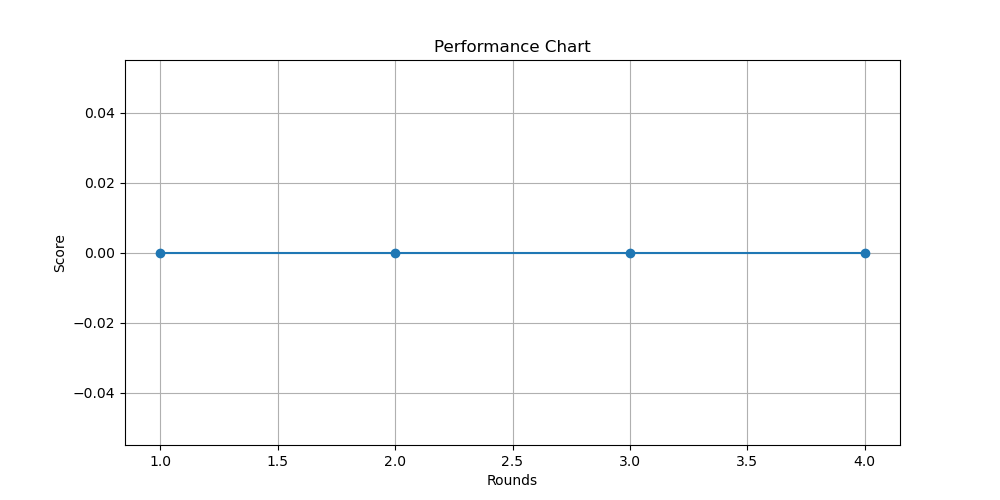
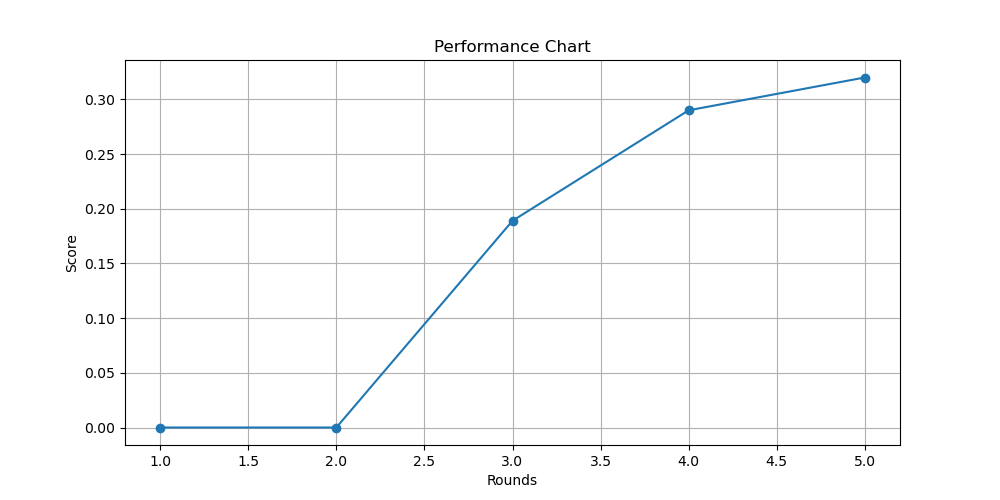
update README.md and performance chart

diff --git a/Final_Project/plot_performance.py b/Final_Project/plot_performance.py
@@ -3,8 +3,8 @@ import matplotlib.pyplot as plt
 matplotlib.use('Agg') 
 
 # Data
-rounds = [1, 2, 3, 4]
-scores = [0, 0, 0, 0]
+rounds = [1, 2, 3, 4, 5]
+scores = [0, 0, 0.189, 0.29, 0.32]
 
 # Create the plot
 plt.figure(figsize=(10, 5))

diff --git a/Final_Project/README.md b/Final_Project/README.md
@@ -1,149 +1,141 @@
 # Kaggle Project: Predicting Problematic Internet Use in Children
 
+**Author:** James Kong
+
+**Course:** COSI 104A - Introduction to Machine Learning
+
+**Assignment:** Final Project
+
+**Date:** 12/13/2024
+
 ## Overview
 
-In today’s digital age, problematic internet use among children and adolescents is a growing concern. Better understanding this issue is crucial for addressing mental health problems such as depression and anxiety.
-
-Current methods for measuring problematic internet use in children and adolescents are often complex and require professional assessments. This creates access, cultural, and linguistic barriers for many families. Due to these limitations, problematic internet use is often not measured directly, but is instead associated with issues such as depression and anxiety in youth.
-
-Conversely, physical & fitness measures are extremely accessible and widely available with minimal intervention or clinical expertise. Changes in physical habits, such as poorer posture, irregular diet, and reduced physical activity, are common in excessive technology users. We propose using these easily obtainable physical fitness indicators as proxies for identifying problematic internet use, especially in contexts lacking clinical expertise or suitable assessment tools.
-
-This competition challenges you to develop a predictive model capable of analyzing children's physical activity data to detect early indicators of problematic internet and technology use. This will enable prompt interventions aimed at promoting healthier digital habits.
-
-Your work will contribute to a healthier, happier future where children are better equipped to navigate the digital landscape responsibly.
+In today’s digital age, problematic internet use among children and adolescents is a growing concern. As part of my project for the COSI 104A - Introduction to Machine Learning course, I aimed to develop a predictive model to identify early indicators of problematic internet use based on children's physical activity data. This project leverages accessible physical and fitness measures as proxies for detecting problematic internet use, which can help in contexts lacking clinical expertise or suitable assessment tools. The goal is to enable prompt interventions aimed at promoting healthier digital habits among children.
 
 ## Project Structure
 
-### Python Files
+The project is organized as follows:
 
-- **[main.py](main.py)**: Orchestrates the data loading, preprocessing, model training, and prediction steps. It loads the training and test data, preprocesses them, trains a model using cross-validation, and predicts problematic internet use within the test data, saving the results to a CSV file.
-  - **Functions**:
-    - `main()`: The main function that coordinates the entire process from data loading to prediction.
-    - `start_timer()`, `get_time_passed()`: Utility functions for tracking the execution time.
-  - **Example**:
+- `data_loader.py`: Contains functions to load and prepare the data from CSV and Parquet files.
+  - `load_data`: Loads and merges training and test data from CSV and Parquet files.
+  - `prepare_test_data`: Prepares test data for prediction by mapping season strings to integers and filling missing values.
+- `pre_processor.py`: Includes functions for preprocessing the data, such as scaling and applying PCA.
+  - `preprocess_data`: Preprocesses the training and test data by removing columns with missing values, mapping season strings to integers, encoding categorical columns, and applying PCA.
+- `model.py`: Defines the function to train a voting classifier model using RandomForest, XGBoost, and LightGBM classifiers.
+  - `train_model`: Trains a voting classifier model using RandomForest, XGBoost, and LightGBM classifiers.
+- `main.py`: The main script to execute the workflow, including loading data, preprocessing, training the model, evaluating, and saving predictions.
+  - `main`: Executes the workflow by loading and preprocessing data, splitting data into training and testing sets, training the model, evaluating the model, and preparing and saving predictions.
+- `plot_performance.py`: Script to plot the performance of the model over multiple rounds of submissions.
+- `README.md`: Project documentation.
+- `data_dictionary.csv`: Contains descriptions of the dataset fields.
+- `train.csv`, `test.csv`, `sample_submission.csv`: Dataset files.
+- `series_train.parquet/`, `series_test.parquet/`: Additional dataset files in Parquet format.
+## Feature Engineering
+
+Feature engineering is handled within the `preprocess_data` function in the [`pre_processor.py`](pre_processor.py) file. The steps include:
+
+1. Removing columns with more than 50% missing values:
     ```python
-    from data_loader import load_data
-    from preprocessor import preprocess_data
-    from model import train_and_evaluate_model, make_predictions
-    from timer import start_timer, get_time_passed
-
-    def main():
-        start_timer()
-        train_data, test_data = load_data('train.csv', 'test.csv', 'series_train.parquet', 'series_test.parquet')
-        X_train, X_test, y_train = preprocess_data(train_data, test_data)
-        models = train_and_evaluate_model(X_train, y_train, X_train.columns)
-        make_predictions(models, X_test, 'submission.csv', test_data['id'])
-        print(f"Time taken: {get_time_passed()} seconds")
-
-    if __name__ == "__main__":
-        main()
+    train_data = train_data.loc[:, train_data.isnull().mean() < 0.5]
     ```
 
-- **[data_loader.py](data_loader.py)**: Contains functions to load the training and test data from CSV and Parquet files.
-  - **Functions**:
-    - `load_data(train_csv, test_csv, train_parquet, test_parquet)`: Loads and returns the training and test datasets from the specified files.
-  - **Example**:
+2. Filling remaining missing values with 0:
     ```python
-    import pandas as pd
-
-    def load_data(train_csv, test_csv, train_parquet, test_parquet):
-        train_data = pd.read_csv(train_csv)
-        test_data = pd.read_csv(test_csv)
-        train_series = pd.read_parquet(train_parquet)
-        test_series = pd.read_parquet(test_parquet)
-        return train_data, test_data, train_series, test_series
+    train_data = train_data.fillna(0)
     ```
 
-- **[preprocessor.py](preprocessor.py)**: Handles data preprocessing tasks such as cleaning, normalization, and feature engineering.
-  - **Functions**:
-    - `preprocess_data(X_train, X_test)`: Preprocesses the training and test datasets, including normalization and feature engineering.
-  - **Example**:
+3. Mapping season strings to integers for relevant columns:
     ```python
-    from sklearn.preprocessing import StandardScaler
-
-    def preprocess_data(train_data, test_data):
-        X_train = train_data.drop(columns=['target'])
-        y_train = train_data['target']
-        X_test = test_data.copy()
-
-        scaler = StandardScaler()
-        X_train = scaler.fit_transform(X_train)
-        X_test = scaler.transform(X_test)
-
-        return X_train, X_test, y_train
+    season_mapping = {'Spring': 0, 'Summer': 1, 'Fall': 2, 'Winter': 3}
+    season_cols = ['Basic_Demos-Enroll_Season', 'CGAS-Season', 'Physical-Season', 'Fitness_Endurance-Season', 'FGC-Season', 'BIA-Season', 'PCIAT-Season', 'SDS-Season', 'PreInt_EduHx-Season']
+    for col in season_cols:
+        if col in train_data.columns:
+            train_data[col] = train_data[col].map(season_mapping).fillna(-1).astype(int)
     ```
 
-- **[model.py](model.py)**: Contains functions to train and evaluate machine learning models using cross-validation and to make predictions on the test data.
-  - **Functions**:
-    - `train_and_evaluate_model(X_train, y_train, feature_names)`: Trains multiple models and evaluates them using cross-validation.
-    - `make_predictions(models, X_test, submission_file, test_ids)`: Makes predictions on the test data and saves the results to a CSV file.
-  - **Example**:
+4. Converting all columns to numeric:
     ```python
-    from sklearn.ensemble import RandomForestClassifier
-    from sklearn.model_selection import cross_val_score
-    import pandas as pd
-
-    def train_and_evaluate_model(X_train, y_train, feature_names):
-        model = RandomForestClassifier(n_estimators=100, random_state=42)
-        scores = cross_val_score(model, X_train, y_train, cv=5, scoring='accuracy')
-        print(f"Cross-validation scores: {scores}")
-        model.fit(X_train, y_train)
-        return model
-
-    def make_predictions(model, X_test, submission_file, test_ids):
-        predictions = model.predict(X_test)
-        submission = pd.DataFrame({'id': test_ids, 'prediction': predictions})
-        submission.to_csv(submission_file, index=False)
+    train_data = train_data.apply(pd.to_numeric, errors='coerce')
     ```
 
-- **[plot_performance.py](plot_performance.py)**: Generates a performance plot of multiple round submissions.
-  - **Functions**:
-    - `plot_performance_chart()`: Plots the performance of different model submissions over multiple rounds.
-  - **Example**:
+5. Selecting columns with high correlation to the label `sii`:
     ```python
-    import matplotlib.pyplot as plt
-
-    def plot_performance_chart():
-        rounds = [1, 2, 3, 4, 5]
-        scores = [0.5, 0.55, 0.6, 0.65, 0.7]
-        plt.plot(rounds, scores, marker='o')
-        plt.title('Model Performance Over Multiple Rounds')
-        plt.xlabel('Round')
-        plt.ylabel('Score')
-        plt.show()
+    correlation_with_label = train_data.corr()['sii']
+    corr_threshold = 0.2
+    high_corr_columns = correlation_with_label[abs(correlation_with_label) >= corr_threshold].index
+    train_data = train_data[high_corr_columns]
     ```
 
-### CSV Files
+6. Encoding categorical columns using [LabelEncoder](http://_vscodecontentref_/0):
+    ```python
+    encoder = LabelEncoder()
+    categorical_columns = train_data.select_dtypes(include=['object']).columns
+    for col in categorical_columns:
+        train_data[col] = encoder.fit_transform(train_data[col].astype(str))
+    ```
 
-- **[train.csv](train.csv)**: Contains the training data with various physical and fitness measures along with the target variable indicating problematic internet use.
-- **[test.csv](test.csv)**: Contains the test data with similar features as the training data but without the target variable.
-- **[submission.csv](submission.csv)**: The file where the predictions for the test data are saved for submission.
-- **[data_dictionary.csv](data_dictionary.csv)**: Provides descriptions of the fields in the training and test datasets.
-- **[sample_submission.csv](sample_submission.csv)**: A sample submission file to illustrate the expected format of the submission.
+7. Standardizing the features using [StandardScaler](http://_vscodecontentref_/1):
+    ```python
+    scaler = StandardScaler()
+    X_scaled = scaler.fit_transform(train_data)
+    ```
 
-### Other Files
+8. Applying PCA to reduce dimensionality:
+    ```python
+    pca = PCA(n_components=0.95)
+    X_pca = pca.fit_transform(X_scaled)
+    ```
 
-- **performance_chart.png**: A performance plot showing the scores of multiple round submissions. Despite various steps such as feature engineering, data cleansing, and utilizing time series data, the submission score remained 0 every time, leading to low scores in the `submission.csv` file.
+## Algorithm Selection
 
-## Report
+Initially, I started with a RandomForest classifier but found more success with ensemble learning as I tested multiple models and evaluated their scores. The `train_model` function in the [`model.py`](model.py) file defines the training process for a voting classifier model using RandomForest, XGBoost, and LightGBM classifiers. The ensemble approach improved the model's performance by combining the strengths of different algorithms.
 
-### Feature Engineering
+## Performance Plot
 
-- Various physical and fitness measures were used as features.
-- Data was cleaned and normalized to ensure consistency.
-- Time series data was utilized to capture trends over time.
+![Performance Plot](performance_chart.png)
 
-### Algorithm Selection
+### Evaluation Metric
 
-- Multiple algorithms were tested, including XGBoost, LightGBM, CatBoost, and TabNet.
-- Cross-validation was used to evaluate the performance of each model.
+The `cohen_kappa_score` from `sklearn.metrics` is used to evaluate the model's performance. The Cohen's Kappa score measures the agreement between two raters who each classify N items into C mutually exclusive categories. The score ranges from -1 to 1, where:
 
-### Performance Plot
+- 1 indicates perfect agreement.
+- 0 indicates no agreement (random chance).
+- Negative values indicate disagreement.
 
-![Performance Chart](performance_chart.png)
+In this project, the `cohen_kappa_score` is used to compare the predicted labels with the true labels. The score is calculated as follows:
 
-Despite trying many steps such as feature engineering, data cleansing, and utilizing the time series data, the submission score remained 0 every time within the `submission.csv` file, leading to low scores.
+```python
+from sklearn.metrics import cohen_kappa_score
 
-## Submission
+# Example usage
+qwk_score = cohen_kappa_score(y_true, y_pred, weights='quadratic')
+```
 
-You need to submit a report (10 points), illustrating the whole process and including feature engineering, algorithm selection, and a performance plot of multiple round submissions, a code package (10 points).
+A score of **0.189 - 0.32** indicates moderate agreement. While it shows some predictive power, there is room for improvement. In the context of this project, these scores suggest that the model is able to capture some patterns in the data but would benefit from further tuning and feature engineering.
+
+## How to Run
+
+1. **Install Dependencies**: Ensure you have all the required Python packages installed. You can use the following commands to install the necessary packages:
+
+    Using `pip`:
+    ```sh
+    pip install pandas scikit-learn xgboost lightgbm matplotlib tqdm
+    ```
+
+    Using `conda`:
+    ```sh
+    conda install pandas scikit-learn xgboost lightgbm matplotlib tqdm
+    ```
+
+2. **Execute the Main Script**: Run the [main.py](http://_vscodecontentref_/0) script to perform the entire workflow:
+    ```sh
+    python main.py
+    ```
+
+## Conclusion
+
+This project demonstrates the use of machine learning techniques to predict problematic internet use in children based on physical activity data. By leveraging accessible physical and fitness measures, the model aims to provide early indicators of problematic internet use, enabling timely interventions to promote healthier digital habits.
+
+## Acknowledgements
+
+[Kaggle - johnsonhk88](https://www.kaggle.com/code/johnsonhk88/cmi-problematic-internet-use-ml)
